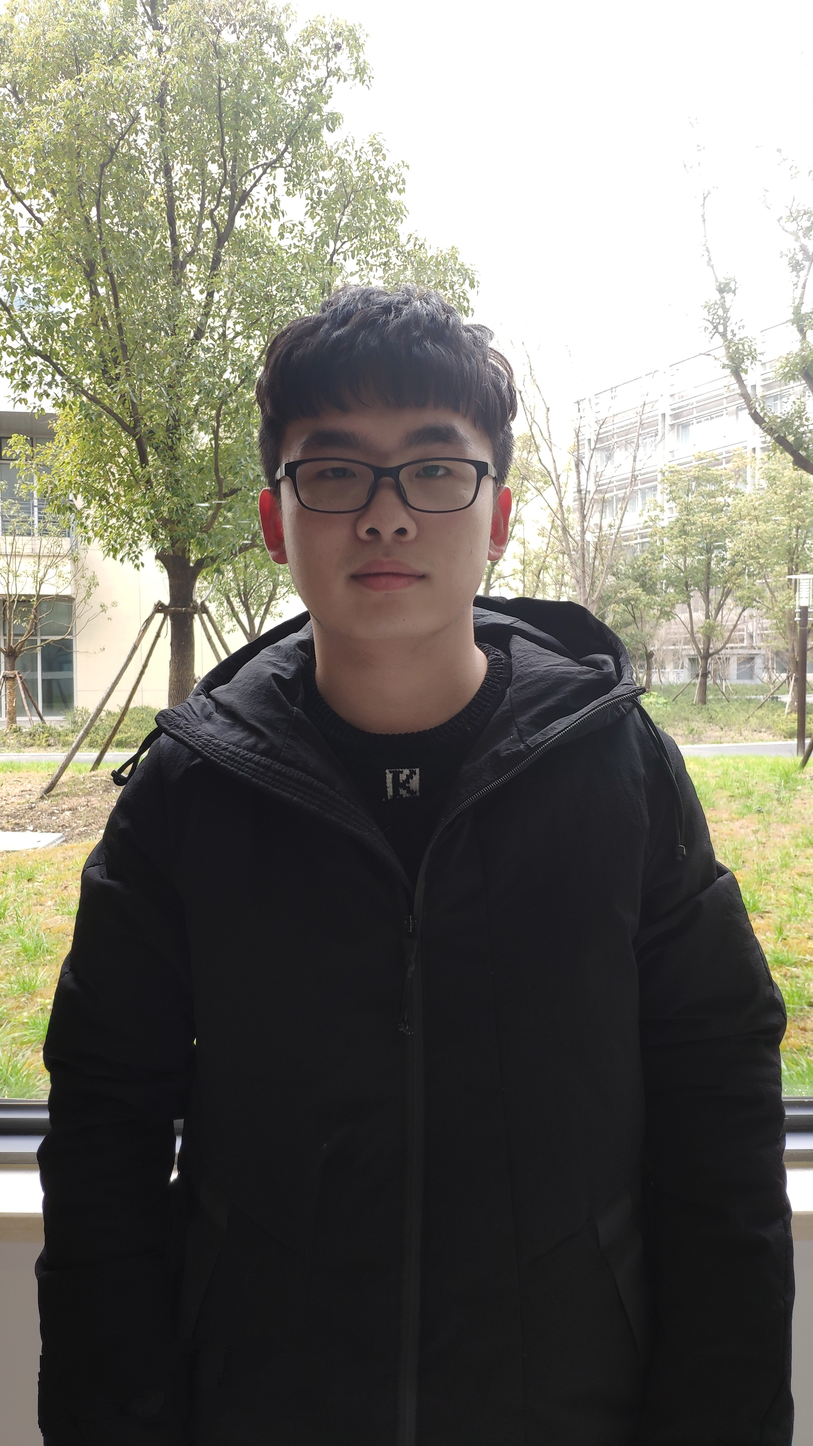
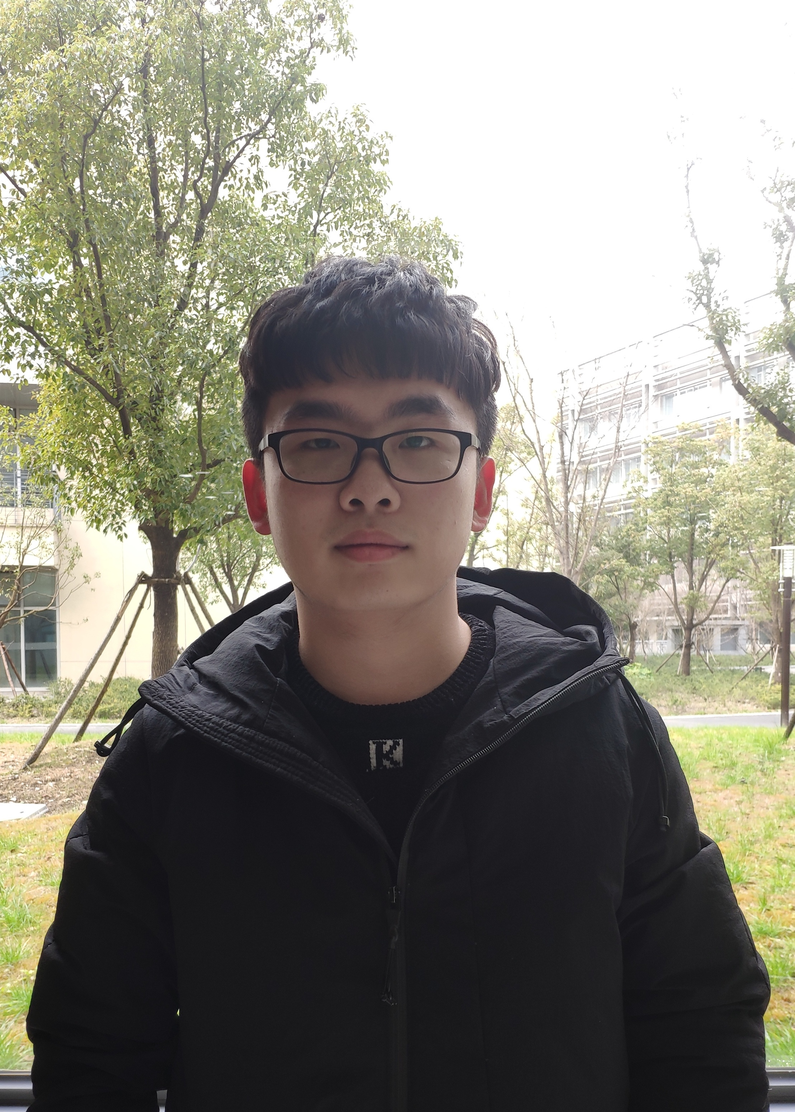
modify photo size

diff --git a/team.html b/team.html
@@ -396,7 +396,7 @@
 
                         <div class="col-sm-6 col-md-3">
                             <div style="width: 100%;">
-                                <img class="photo" src="https://wx1.sinaimg.cn/large/006p0YPZly1g0k9tvbwguj31r0340e82.jpg">
+                                <img class="photo" src="https://wx2.sinaimg.cn/large/006p0YPZly1g0kayjv81ij31pk2e51ky.jpg">
                                 <h4>
                                     Jiale Xu(许家乐)
                                 </h4>
